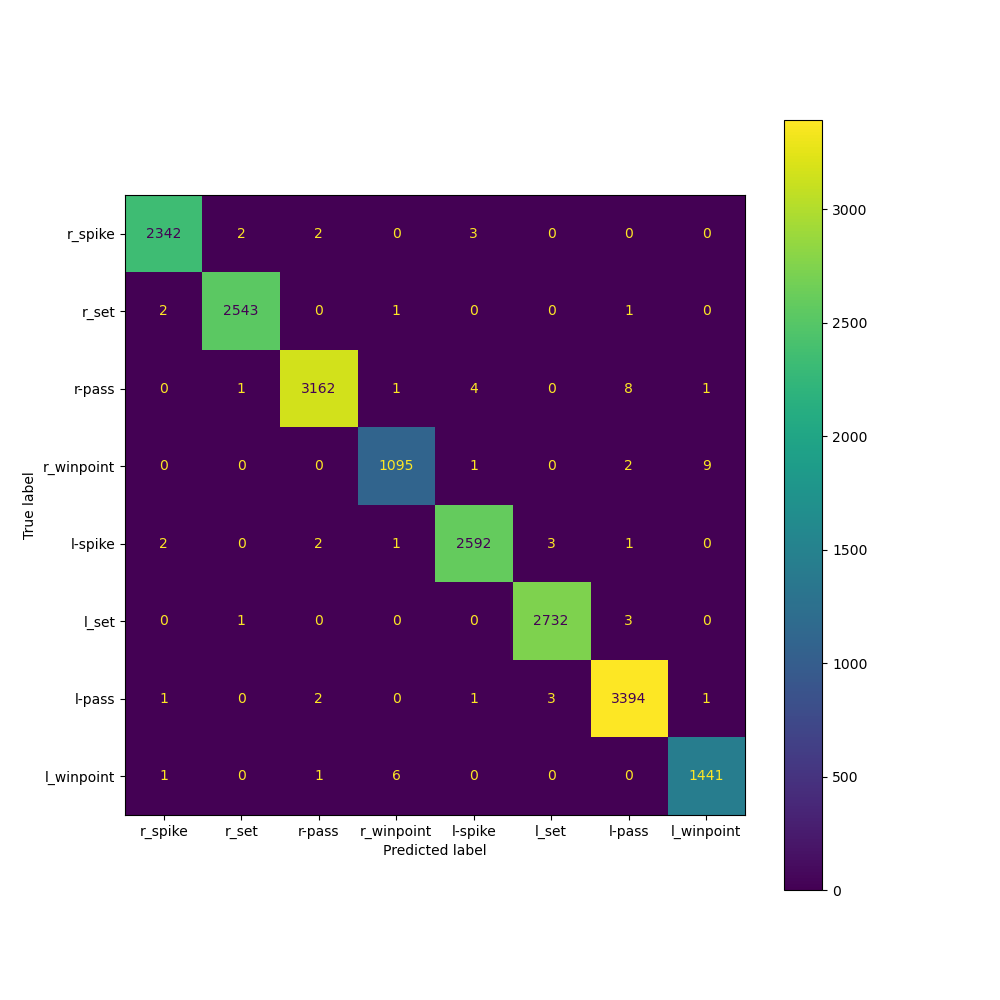
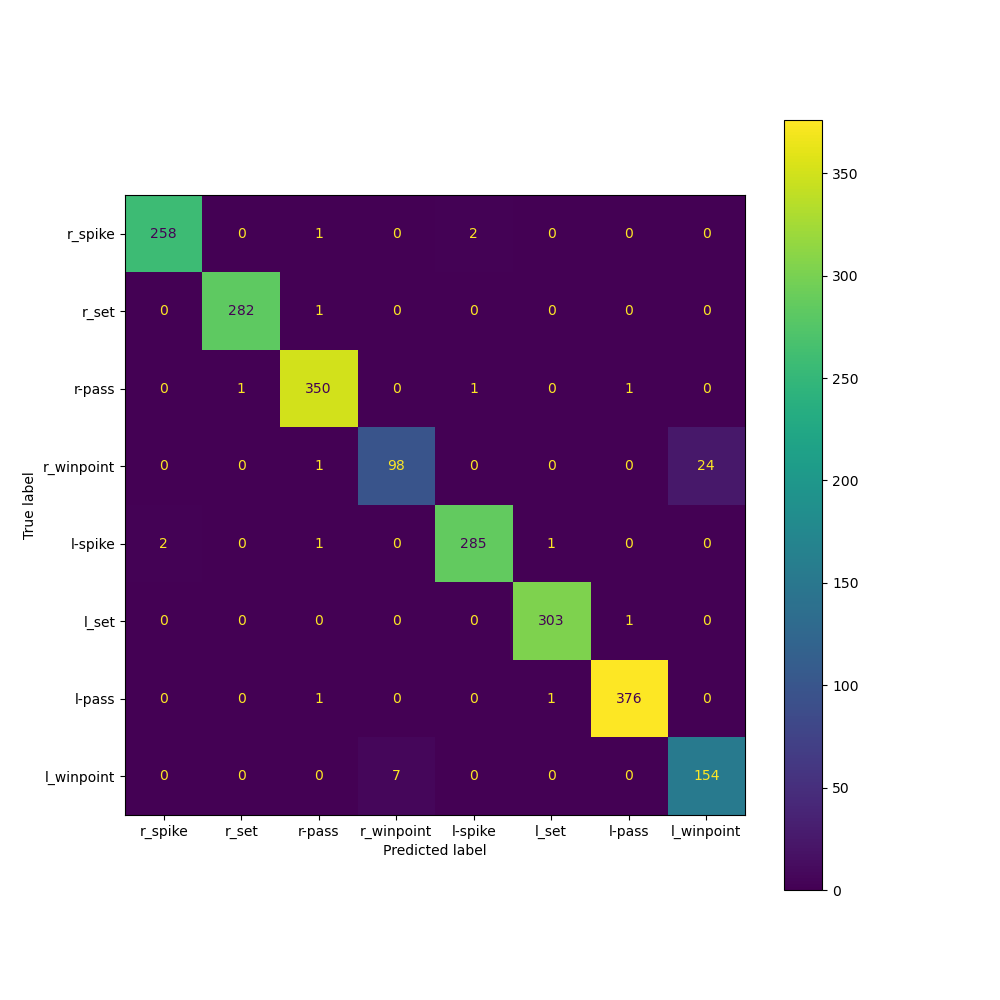
Add Baseline3 models and update training scripts to include test dataset evaluation. Modify dataset handling and improve logging for training and validation processes.

diff --git a/trainers/train_b3_b.py b/trainers/train_b3_b.py
@@ -8,9 +8,9 @@ from torch.utils.data import DataLoader
 
 from constants import group_activities, num_features
 from datasets.features_dataset import FeaturesDataset
-from models.features_classifier import FeaturesClassifier
+from models.baseline3_b import Baseline3B
 from utils.logger import get_logger
-from utils.train_utils import train
+from utils.train_utils import evaluate, train
 
 logger = get_logger("b3_b.log")
 
@@ -24,6 +24,8 @@ with open(os.path.join(features_dir, "train_features.pkl"), "rb") as f:
     train_features = pickle.load(f)
 with open(os.path.join(features_dir, "val_features.pkl"), "rb") as f:
     val_features = pickle.load(f)
+with open(os.path.join(features_dir, "test_features.pkl"), "rb") as f:
+    test_features = pickle.load(f)
 
 logger.info("Loading Training dataset...")
 train_dataset = FeaturesDataset(train_features)
@@ -35,12 +37,17 @@ validation_dataset = FeaturesDataset(val_features)
 validation_data_loader = DataLoader(validation_dataset, batch_size, shuffle=False)
 logger.info(f"Validation dataset size: {len(validation_dataset)}")
 
-classifier_model = FeaturesClassifier(num_features, len(group_activities)).to(device)
+logger.info("Loading Test dataset...")
+test_dataset = FeaturesDataset(test_features)
+test_data_loader = DataLoader(test_dataset, batch_size, shuffle=False)
+logger.info(f"Test dataset size: {len(test_dataset)}")
+
+model = Baseline3B(num_features, len(group_activities)).to(device)
 criterion = CrossEntropyLoss()
-optimizer = optim.AdamW(classifier_model.parameters(), lr=0.0001)
+optimizer = optim.AdamW(model.parameters(), lr=0.0001)
 
 train(
-    classifier_model,
+    model,
     criterion,
     optimizer,
     train_data_loader,
@@ -50,3 +57,5 @@ train(
     "b3_b",
     logger,
 )
+
+evaluate(model, criterion, test_data_loader, logger)

diff --git a/utils/data_utils.py b/utils/data_utils.py
@@ -11,13 +11,10 @@ splits = {
 
 
 class Box:
-    def __init__(self, x1: int, y1: int, x2: int, y2: int, frame_id: str, action: str):
-        self.x1 = x1
-        self.y1 = y1
-        self.x2 = x2
-        self.y2 = y2
-        self.frame_id = frame_id
-        self.action = action
+    def __init__(self, data: list[str]):
+        self.player_id, self.x1, self.y1, self.x2, self.y2 = map(int, data[:5])
+        self.frame_id = data[5]
+        self.action = data[-1]
 
 
 class ClipAnnotation:
@@ -39,16 +36,18 @@ def _load_clip_annotation(clip_id: str, tracking_annotations_path: str) -> ClipA
     player_boxes = defaultdict(list)
     with open(tracking_annotations_path) as f:
         for line in f:
-            data = line.split()
-            player_id, x1, y1, x2, y2 = map(int, data[:5])
-            frame_id = data[5]
-            action = data[-1]
-            player_boxes[player_id].append(Box(x1, y1, x2, y2, frame_id, action))
+            box = Box(line.split())
+            if box.player_id > 11:
+                break
+            player_boxes[box.player_id].append(box)
 
     frame_annotations = defaultdict(list)
     for boxes in player_boxes.values():
         for box in boxes[6:15]:
             frame_annotations[box.frame_id].append(box)
+
+    for boxes in frame_annotations.values():
+        boxes.sort(key=lambda box: (box.x1, box.x2))
 
     return ClipAnnotation(clip_id, frame_annotations)
 

diff --git a/trainers/train_b3_a.py b/trainers/train_b3_a.py
@@ -5,10 +5,10 @@ from torchvision import transforms
 
 from constants import actions
 from datasets.person_dataset import PersonDataset
-from models.person_classifier import PersonClassifier
+from models.baseline3_a import Baseline3A
 from utils.data_utils import load_annotations
 from utils.logger import get_logger
-from utils.train_utils import train
+from utils.train_utils import evaluate, train
 
 logger = get_logger("b3_a.log")
 
@@ -39,9 +39,15 @@ validation_dataset = PersonDataset(videos_dir, annotations, "val", transform=tra
 validation_data_loader = DataLoader(validation_dataset, batch_size, shuffle=False)
 logger.info(f"Validation dataset size: {len(validation_dataset)}")
 
-model = PersonClassifier(len(actions)).to(device)
+logger.info("Loading Test dataset...")
+test_dataset = PersonDataset(videos_dir, annotations, "test", transform=transform)
+test_data_loader = DataLoader(test_dataset, batch_size, shuffle=False)
+logger.info(f"Test dataset size: {len(test_dataset)}")
+
+model = Baseline3A(len(actions)).to(device)
 criterion = nn.CrossEntropyLoss()
 optimizer = optim.AdamW(model.parameters(), lr=0.0001)
+
 train(
     model,
     criterion,
@@ -53,3 +59,5 @@ train(
     "b3_a",
     logger,
 )
+
+evaluate(model, criterion, test_data_loader, logger)

diff --git a/datasets/person_dataset.py b/datasets/person_dataset.py
@@ -17,10 +17,8 @@ class PersonDataset(Dataset):
             for clip_id in annotation.clip_activities:
                 for frame_id, boxes in annotation.clip_annotations[clip_id].frame_annotations.items():
                     image_path = os.path.join(videos_dir, str(video_id), clip_id, f"{frame_id}.jpg")
-                    image = Image.open(image_path)
                     for box in boxes:
-                        cropped_image = image.crop((box.x1, box.y1, box.x2, box.y2))
-                        self.data.append((cropped_image, box.action))
+                        self.data.append((image_path, box))
 
         self.transform = transform
 
@@ -28,9 +26,12 @@ class PersonDataset(Dataset):
         return len(self.data)
 
     def __getitem__(self, idx: int):
-        image = self.data[idx][0]
+        image_path, box = self.data[idx]
+        image = Image.open(image_path)
+        image = image.crop((box.x1, box.y1, box.x2, box.y2))
+
         # No need for one-hot encoding because we are using CrossEntropyLoss which expects class indices
-        label = torch.tensor(actions[self.data[idx][1]])
+        label = torch.tensor(actions[box.action])
 
         if self.transform:
             image = self.transform(image)

diff --git a/datasets/features_dataset.py b/datasets/features_dataset.py
@@ -1,7 +1,7 @@
 import torch
 from torch.utils.data import Dataset
 
-from constants import group_activities, num_features
+from constants import group_activities
 
 
 class FeaturesDataset(Dataset):
@@ -11,14 +11,12 @@ class FeaturesDataset(Dataset):
             for clip_id in features[video_id]:
                 clip_activity = features[video_id][clip_id]["label"]
                 clip_features = features[video_id][clip_id]["features"]
-                frame_features = torch.split(clip_features, num_features)
-                for frame_feature in frame_features:
-                    self.data.append((frame_feature, clip_activity))
+                self.data.append((clip_features, clip_activity))
 
     def __len__(self):
         return len(self.data)
 
     def __getitem__(self, idx: int):
-        image_features = self.data[idx][0]
+        clip_features = self.data[idx][0]
         label = torch.tensor(group_activities[self.data[idx][1]])
-        return image_features, label
+        return clip_features, label

diff --git a/models/baseline3_b.py b/models/baseline3_b.py
@@ -1,0 +1,26 @@
+import torch
+from torch import nn
+
+
+class Baseline3B(nn.Module):
+    def __init__(self, input_dim, num_classes):
+        super().__init__()
+        self.fc = nn.Sequential(
+            nn.Linear(input_dim, 1000),
+            nn.BatchNorm1d(1000),
+            nn.ReLU(),
+            nn.Dropout(0.5),
+            nn.Linear(1000, 128),
+            nn.BatchNorm1d(128),
+            nn.ReLU(),
+            nn.Dropout(0.5),
+            nn.Linear(128, num_classes),
+        )
+
+    def forward(self, x):
+        # x shape: (batch_size, sequence_length, num_players, num_features)
+        # Average pool over 9 frames summarizing the information across the sequence
+        x = torch.mean(x, dim=1)  # (batch_size, num_players, num_features)
+        # Max pool over 12 players
+        x = torch.max(x, dim=1)[0]  # (batch_size, num_features)
+        return self.fc(x)  # (batch_size, num_classes)

diff --git a/models/baseline3_a.py b/models/baseline3_a.py
@@ -1,0 +1,27 @@
+from torch import nn
+from torchvision import models
+from torchvision.models import ResNet50_Weights
+
+
+class Baseline3A(nn.Module):
+    def __init__(self, num_classes):
+        super().__init__()
+        resnet = models.resnet50(weights=ResNet50_Weights.DEFAULT)
+        num_features = resnet.fc.in_features
+
+        self.backbone = nn.Sequential(*list(resnet.children())[:-1])
+        self.fc = nn.Sequential(
+            nn.Linear(num_features, 265),
+            nn.ReLU(),
+            nn.Dropout(0.5),
+            nn.Linear(265, 128),
+            nn.ReLU(),
+            nn.Dropout(0.5),
+            nn.Linear(128, num_classes),
+        )
+
+    def forward(self, x):
+        x = self.backbone(x)
+        x = x.view(x.size(0), -1)
+        x = self.fc(x)
+        return x

diff --git a/utils/train_utils.py b/utils/train_utils.py
@@ -111,7 +111,6 @@ def evaluate_epoch(
 
 def train(model, criterion, optimizer, train_data_loader, validation_data_loader, epochs, display_labels, name, logger):
     logger.info("Start training...")
-    # TODO: LR Scheduler
 
     train_accuracies = []
     train_losses = []
